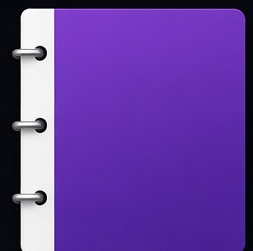
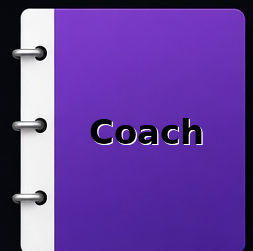
Use the labeled binder covers from the owner.
The role name is printed on each cover image. The picker keeps the plan badge and description underneath and does not paint a second title.

Changed region(s): [[0.3597, 0.4462, 0.8024, 0.5857]]

diff --git a/src/components/InstructorInvitePanel.tsx b/src/components/InstructorInvitePanel.tsx
@@ -345,14 +345,14 @@ const BINDER_ART: Record<InstructorPresetId, { src: string; width: number; heigh
   instructors: { src: '/instructor-binders/instructor-black.png', width: 249, height: 254 },
 };
 
-function BinderIcon({ presetId }: { presetId: InstructorPresetId | null }) {
+function BinderIcon({ presetId, alt = '' }: { presetId: InstructorPresetId | null; alt?: string }) {
   if (!presetId) {
     return <span className="role-binder role-binder--unset" aria-hidden="true" />;
   }
   const art = BINDER_ART[presetId];
   return (
     <span className={`role-binder role-binder--${presetId}`}>
-      <img src={art.src} alt="" draggable={false} width={art.width} height={art.height} />
+      <img src={`${art.src}?v=labeled`} alt={alt} draggable={false} width={art.width} height={art.height} />
     </span>
   );
 }
@@ -381,9 +381,8 @@ function PresetBinders({
               className={`role-pick role-pick--${preset.id}${on ? ' role-pick--on' : ''}`}
               onClick={() => onSelect(preset.id)}
             >
-              <BinderIcon presetId={preset.id} />
+              <BinderIcon presetId={preset.id} alt={preset.label} />
               <PlanBadge presetId={preset.id} />
-              <span className="role-pick__name">{preset.label}</span>
               <span className="role-pick__detail">{preset.detail}</span>
             </button>
           );

diff --git a/src/index.css b/src/index.css
@@ -1102,15 +1102,6 @@ span.role-plan__mark {
   line-height: 1;
 }
 
-.role-pick__name {
-  color: #f4f6fb;
-  font-size: 0.98rem;
-  font-weight: 800;
-  letter-spacing: -0.03em;
-  line-height: 1.15;
-  text-align: center;
-}
-
 .role-pick__detail {
   color: #9aa3b5;
   font-size: 0.78rem;
